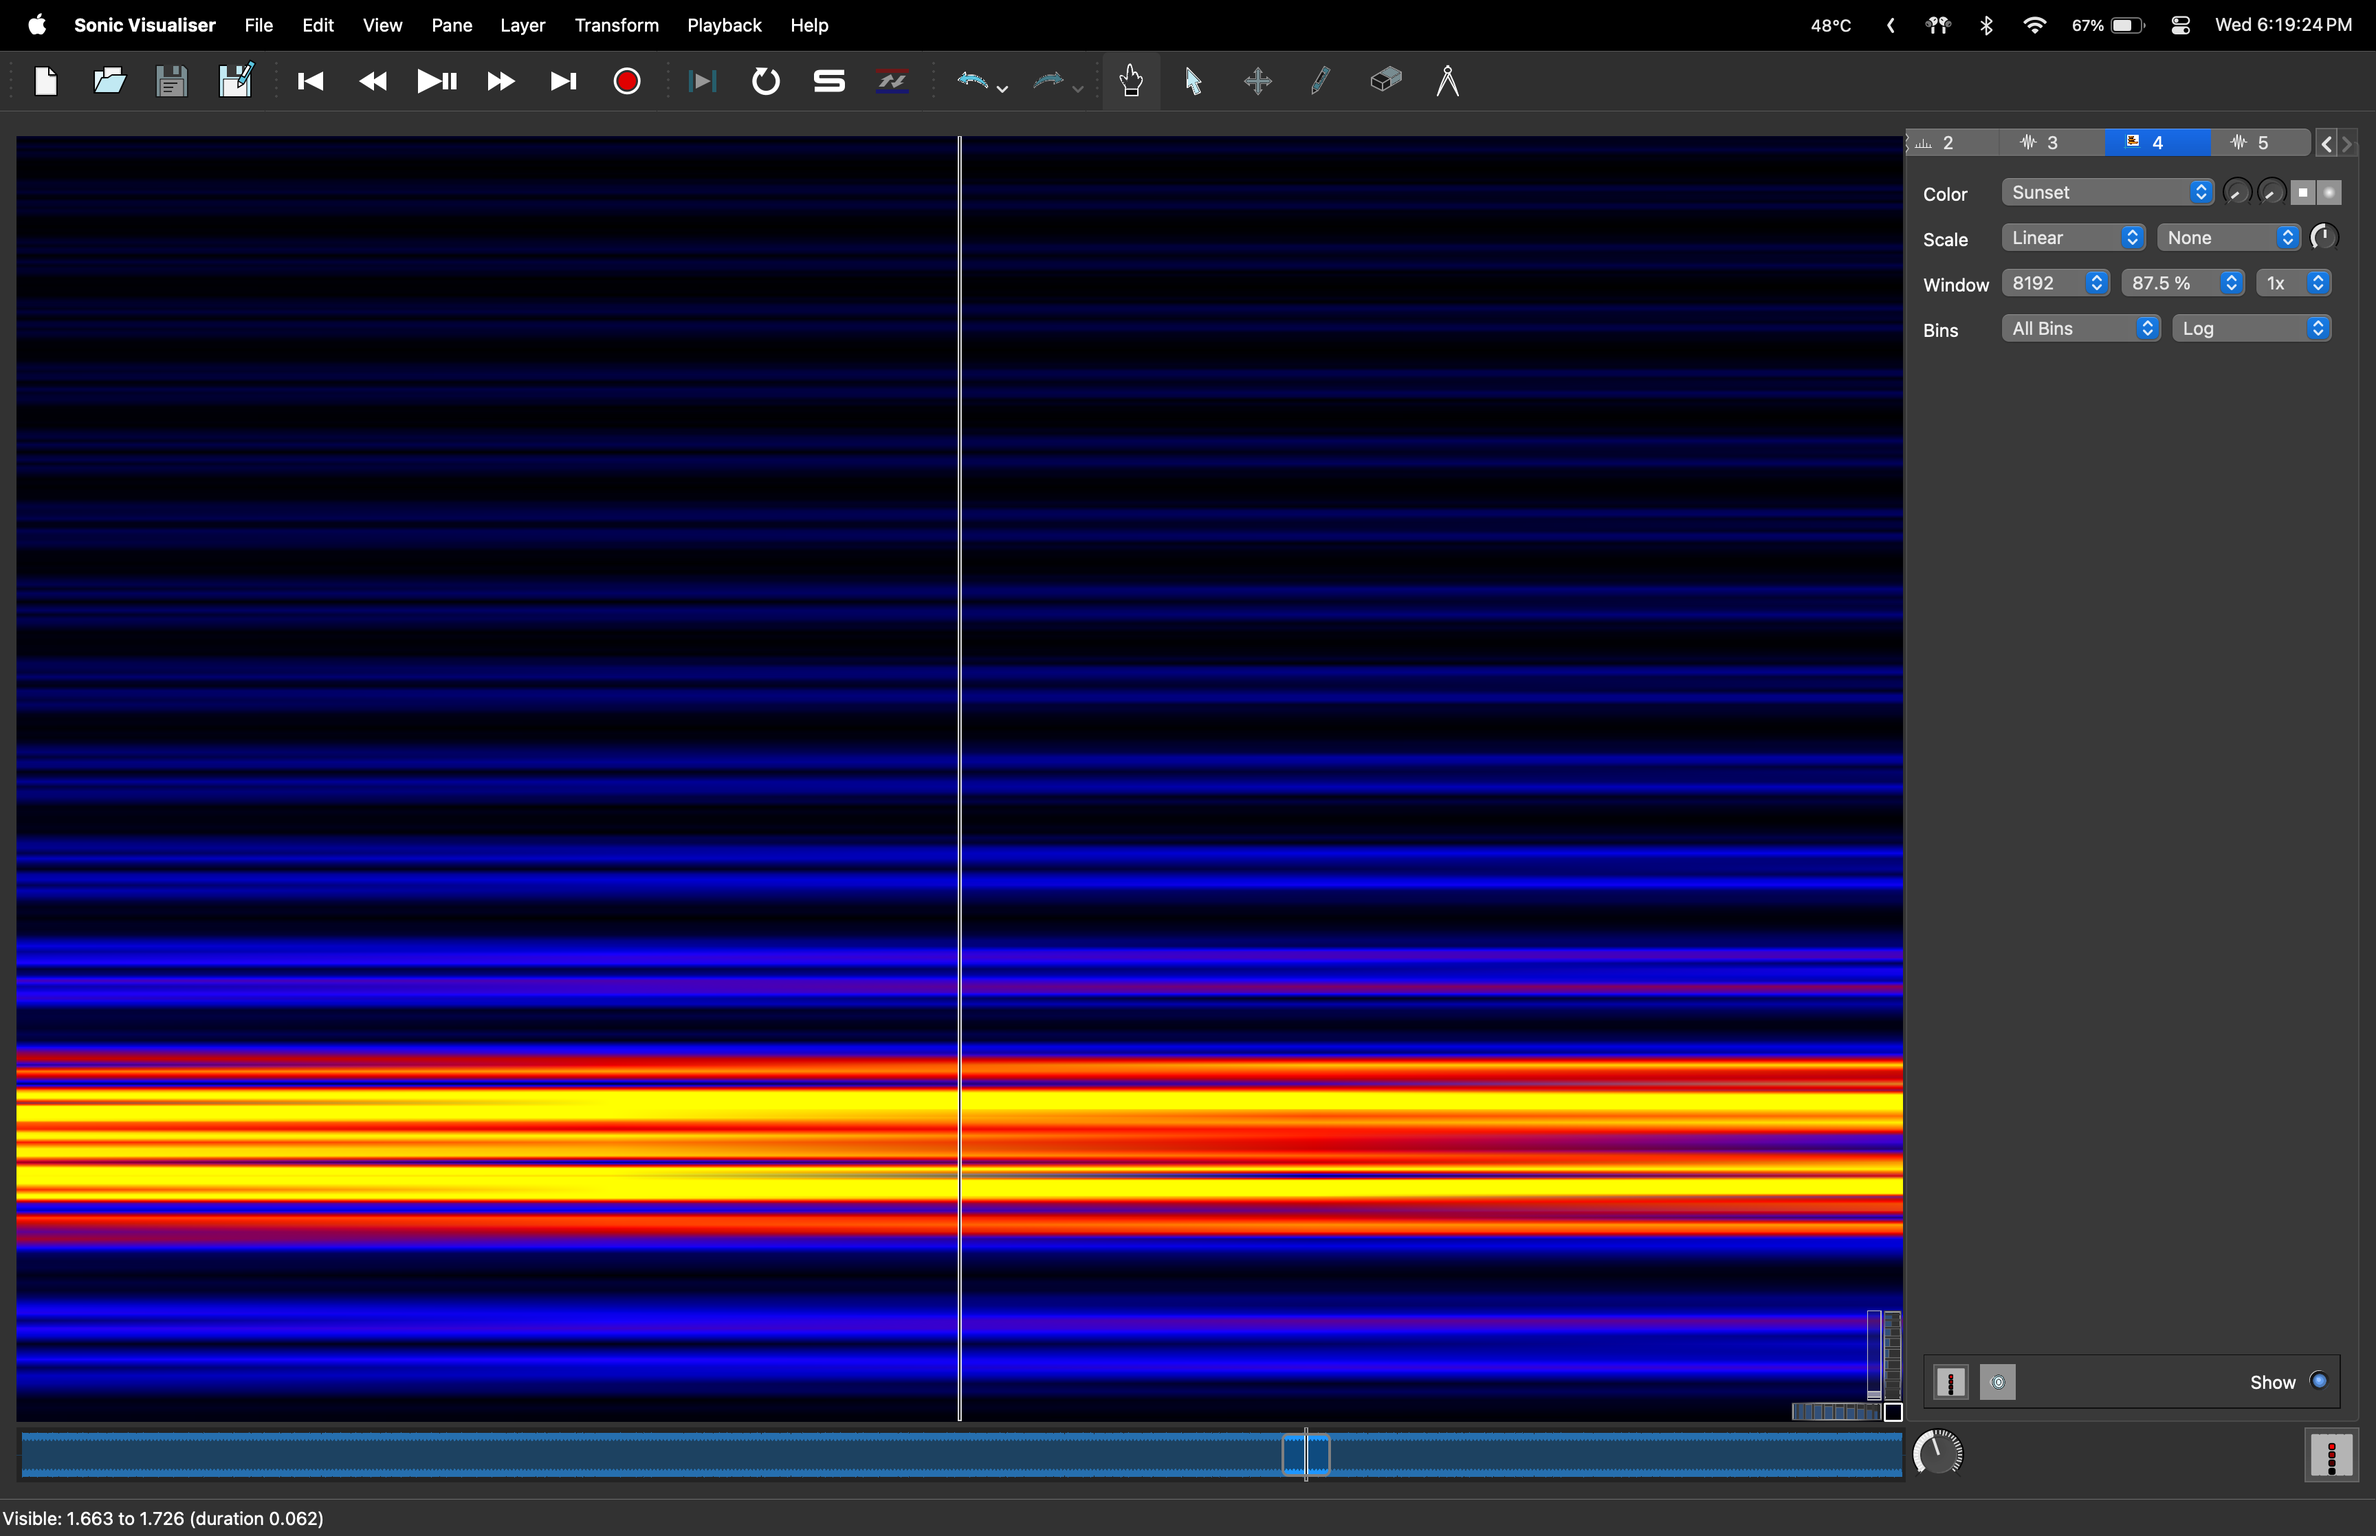
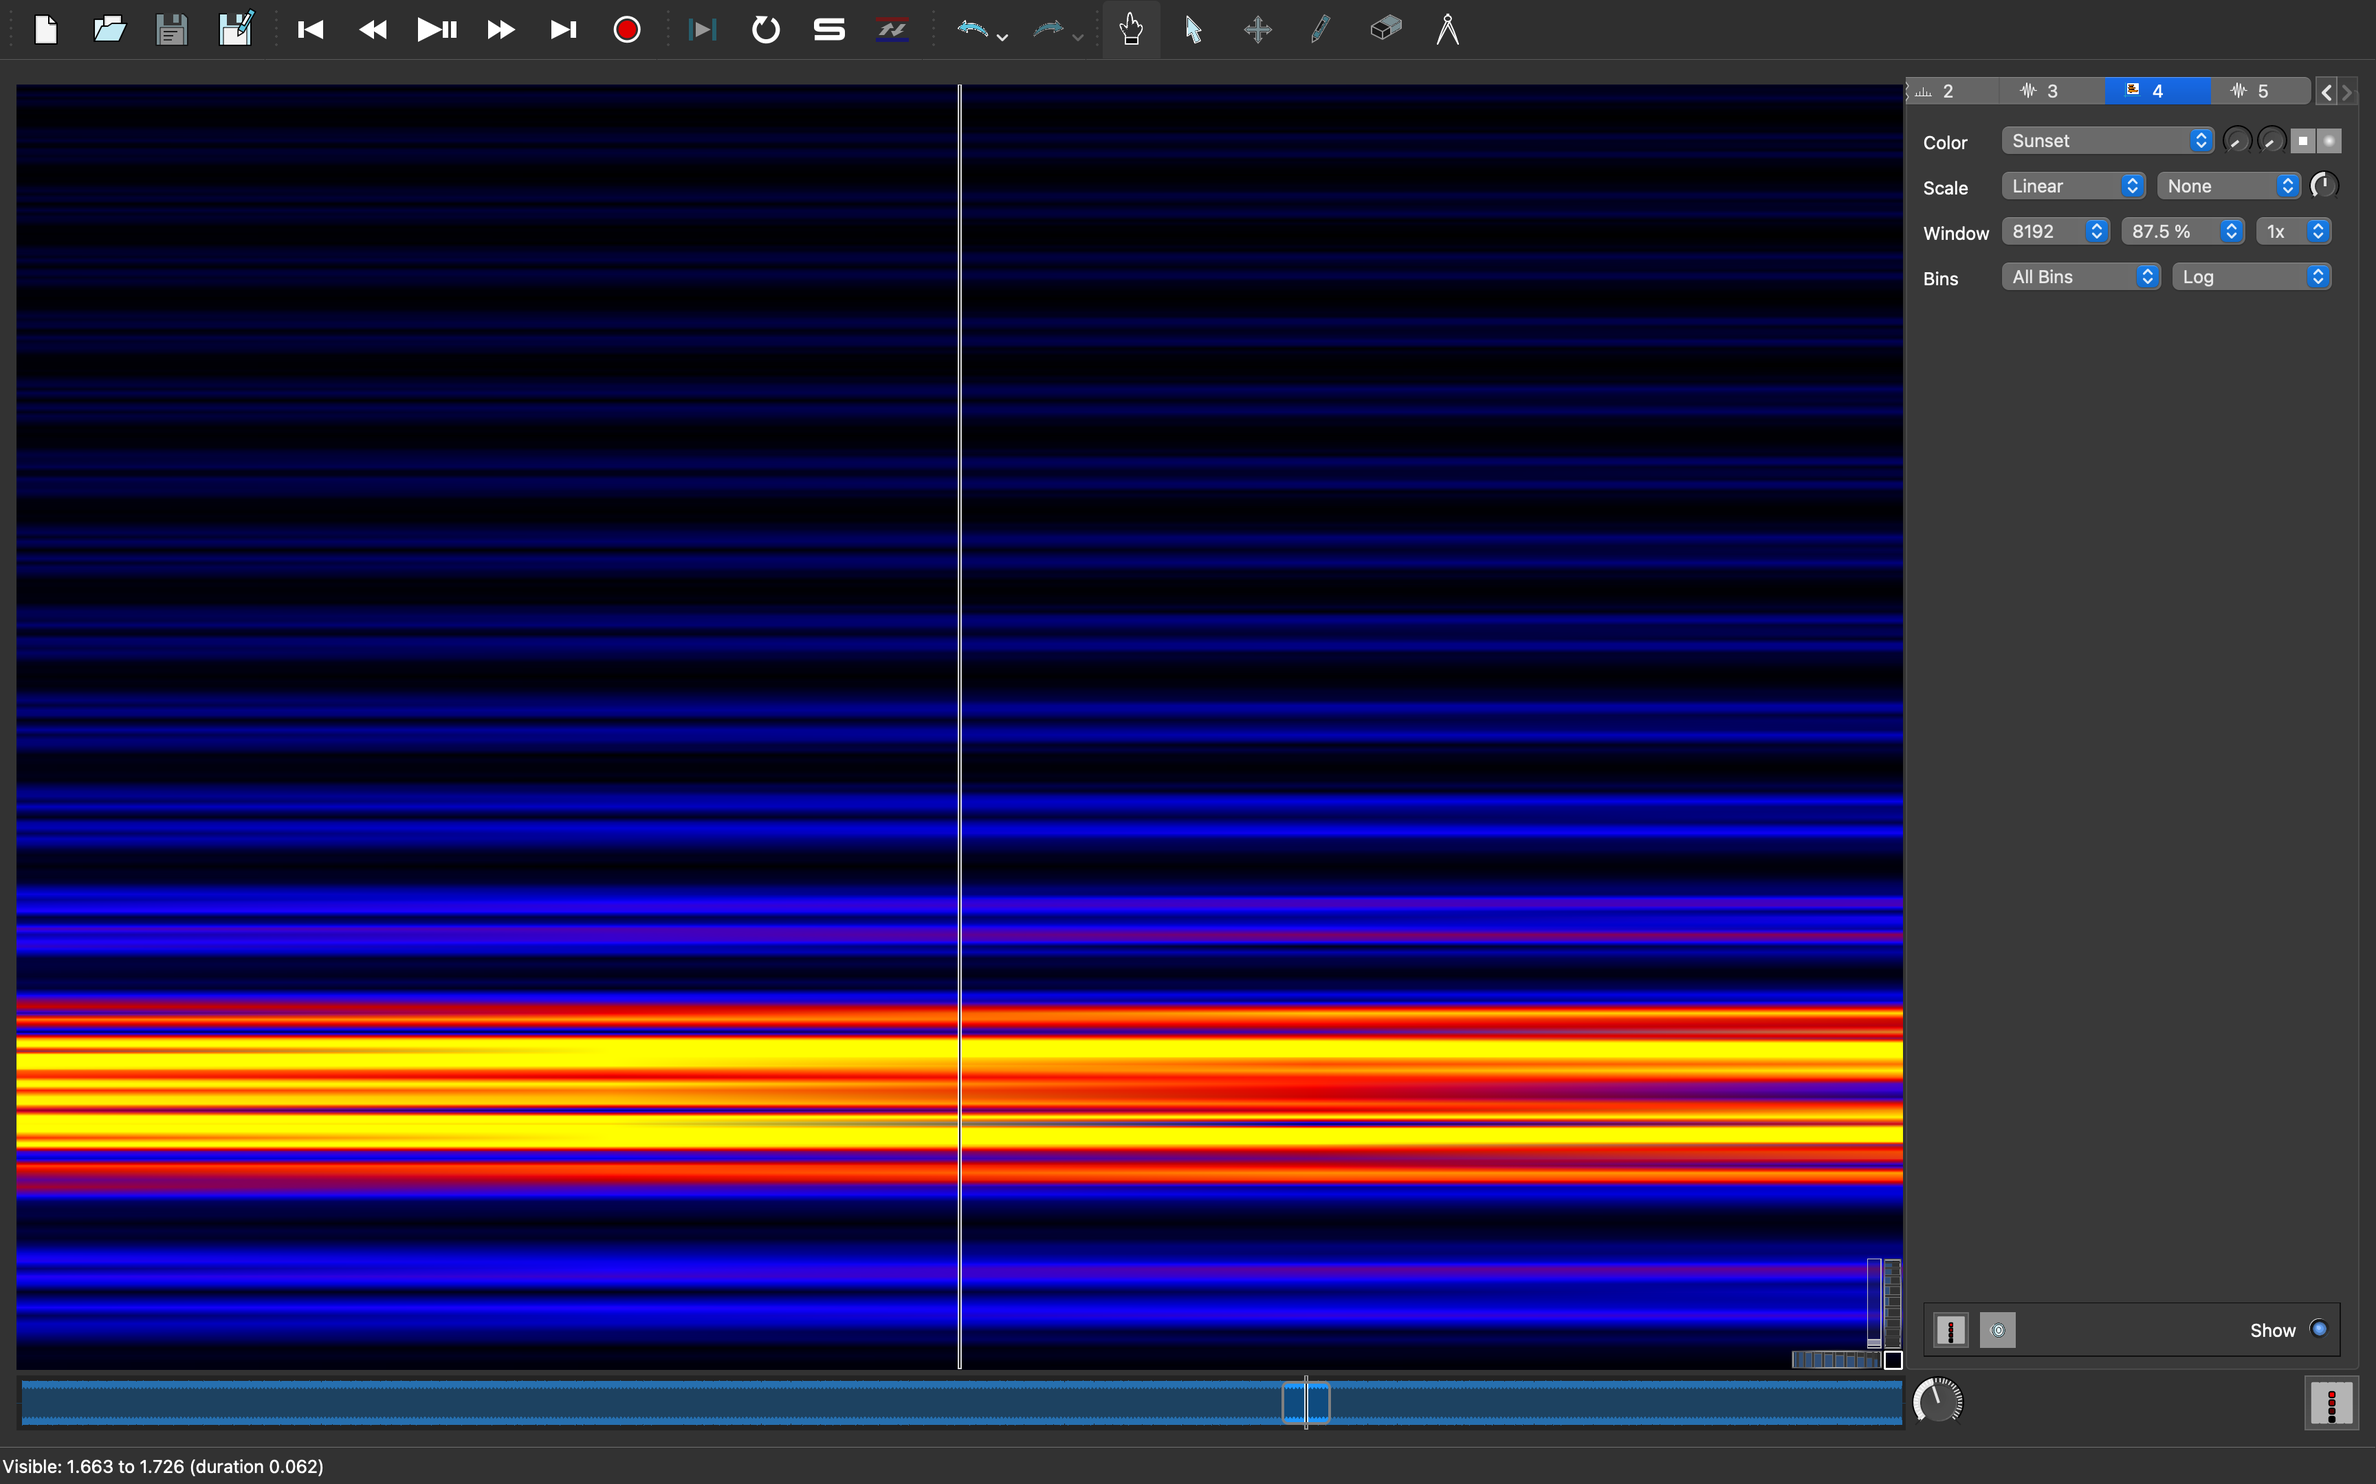
GITBOOK-110: No subject

diff --git a/README.md b/README.md
@@ -1,8 +1,8 @@
 ---
 description: 'chall author: Yana'
 cover: .gitbook/assets/landscape_8343abe8fb00bab9b7e2c00774ffbae2.jpg
-coverY: 90.76923076923077
-coverHeight: 408
+coverY: 0
+coverHeight: 477
 layout:
   width: default
   cover:
@@ -34,7 +34,7 @@ A group of ppl are in a circle chatting when I enter the room, with a few others
 
 It is my first CTF. I know almost nothing about cybersecurity. I scroll through the challenges and pick the OSINT one because it looks the simplest. It is just a photo in .JPG format, can't be that hard right? The goal is to find the location of where the picture was taken and the nearby classrooms. I figure the coordinates would be in the metadata, then I would pop them into Google Maps, and that would be it.
 
-Using **Exiftool** (as Gemini recommended), I find nothing useful in the metadata. So are they really expecting us to walk around and physically find it? I beg Aditya, who is right behind me, for a hint. He smirks at me and says "Start walking!". I prefer not to sneak around the campus in the evening, so that is the end of my first attempt to solve a challenge.
+Using **Exiftool**, I find nothing useful in the metadata. So are they really expecting us to walk around and physically find it? I beg Aditya, who is right behind me, for a hint. He smirks at me and says "Start walking!". I prefer not to sneak around the campus in the evening, so that is the end of my first attempt to solve a challenge.
 
 Pushing forward, I pick the second seem-to-be-the-simplest challenge – Forensics. It is just a .WAV file. It even comes with a nice short story in the description. Maybe this time, the metadata would prove to be helpful.&#x20;
 
@@ -56,11 +56,11 @@ Pushing forward, I pick the second seem-to-be-the-simplest challenge – Forensi
 >
 > * [`maple-signals.wav`](https://maplebacon.org/assets/1337-2026/forensics/maple-signals.wav)
 
-And I am wrong again. There don't seem to be any hints in the metadata. Not knowing what else to do, I ask Gemini for help again. "Download **Sonic Visualiser**, that's what the pros use," it answers. I am not a pro, but I will use it. Opening the .WAV file, I am greeted with a solid blue bar. Oh, I am zoomed out too far. As I zoom in, the solid bar starts to turn into a waveform. Cool, but I still have no idea what I am looking at. Playing around with the menus, it seems there are layers of different [spectrograms](https://en.wikipedia.org/wiki/Spectrogram). After cycling through all of them, zooming in and out, I am still clueless about where the flag is. I guess I am not a pro after all.
+And I am wrong again. There don't seem to be any hints in the metadata. Not knowing what else to do, I ask Gemini for help. "Download [**Sonic Visualiser**](https://www.sonicvisualiser.org/), that's what the pros use," it answers. I am not a pro, but I will use it. Opening the .WAV file, I am greeted with a solid blue bar. Oh, I am zoomed out too far. As I zoom in, the solid bar starts to turn into a waveform. Cool, but I still have no idea what I am looking at. Playing around with the menus, it seems beside waveform, there are also different [spectrograms](https://en.wikipedia.org/wiki/Spectrogram) layers. After cycling through all of them, zooming in and out, I am still clueless about where the flag is. I guess I am not a pro after all.
 
-<figure><img src=".gitbook/assets/Screenshot 2026-03-04 at 6.25.42 PM.png" alt=""><figcaption><p>Sonic Visualiser</p></figcaption></figure>
+<div><figure><img src=".gitbook/assets/Screenshot 2026-05-05 at 3.38.01 PM.png" alt=""><figcaption><p>The solid blue bar</p></figcaption></figure> <figure><img src=".gitbook/assets/Screenshot 2026-05-05 at 3.29.06 PM.png" alt=""><figcaption><p>After zooming in</p></figcaption></figure> <figure><img src=".gitbook/assets/Screenshot 2026-05-05 at 3.34.00 PM.png" alt=""><figcaption><p>Spectrogram</p></figcaption></figure></div>
 
-The next suggestion Gemini gives me is [Slow Scan Television (SSTV)](https://en.wikipedia.org/wiki/Slow-scan_television). Maybe the flag is an image hidden in the spectrogram. Except when I compare the sound of our .WAV file to a SSTV sample on YouTube, they sound nothing alike. Another dead end.
+The next suggestion Gemini gives me is [Slow Scan Television (SSTV)](https://en.wikipedia.org/wiki/Slow-scan_television). Maybe the flag is an image hidden in the spectrogram. Except when I compare the sound of our [.WAV file](https://maplebacon.org/assets/1337-2026/forensics/maple-signals.wav) to a SSTV sample on [YouTube](https://www.youtube.com/watch?v=EJbFg4sjINo), they sound nothing alike. Another dead end.
 
 Perhaps sensing the hopelessness, Yana comes over to check on me. After seeing that I am stuck, she suggests trying another challenge. It might be easier. I tell her I want to give this one more hour. She looks at me and says "It is all about perspective." and leaves.
 
@@ -70,29 +70,44 @@ Then Zhou, who sits at the other corner of the room, rolls his chair over and as
 
 Part not willing to admit defeat, part trying to impress each other, we find ourselves staring at the challenge description for a period of time that exceeds the social norm. A small detail starts catching our attention: **100 BPM**.&#x20;
 
-It seems weirdly specific to include that in a block of text that is mostly for flavor. "Does that mean 100ms?" I ask Zhou. "10ms," he replies. (Which turns out, we were both wrong lol. 100 BPM is 1 beat every 600ms. 100Hz is 10ms.) Then Zhou has to go. Before he leaves, he shows me a Python library called `librosa`. He has been using it to read the .WAV file in his Python script.
+It seems weirdly specific to include that in a block of text that is mostly for flavor. "Does that mean 100ms?" I ask Zhou. "**10ms**," he replies. (Which turns out, we were both wrong lol. 100 BPM is 1 beat every 600ms. We were thinking 100Hz which is 1 cycle per 10ms.) Then Zhou has to go. Before he leaves, he shows me a Python library called `librosa`. He has been using it to read the .WAV file in his Python script.
 
 Switching back to Sonic Visualiser, I continue playing with the different "perspectives". Then suddenly, I see it. In the **Waveform** layer, with the timescale sets to **10ms**, the waveform is not continuous anymore. There are distinct spikes, some upward, some downward, hidden in constant intervals, sort of like Morse code.
 
-<figure><img src=".gitbook/assets/Screenshot 2026-03-04 at 6.19.06 PM.png" alt=""><figcaption><p>Example of an upward spike that would transcribe to 1 in binaries.</p></figcaption></figure>
+<figure><img src=".gitbook/assets/Screenshot 2026-03-04 at 6.19.06 PM (1).png" alt=""><figcaption><p>The "perspective" showing the spikes.</p></figcaption></figure>
 
-I am about to grab a pen to write the code manually, but then I remember the Python library Zhou just showed me. With a bit of help from Gemini to understand the API, I now have a Python script that reads the .WAV file in 10ms chunks and prints 0 or 1 depending on the spike direction.
+I am about to grab a pen to transcribe the code manually, but then I remember the Python library Zhou just showed me. With a bit of help from Gemini to understand the API, I now have a Python script that reads the .WAV file in 10ms chunks and prints 0 or 1 depending on the _spike_ direction. (It is not really a spike, see explanation below)
+
+## Solve Script
+
+A .WAV file usually has the [sampling rate](https://en.wikipedia.org/wiki/Sampling_\(signal_processing\)) of 44100Hz (samples/sec), so a chunk of 10ms would contain 441 samples. Here is an example of a chunk that would correlate to 1 in binaries. A chunk that correlates to 0 in binaries would have same values but negative.&#x20;
+
+<table><thead><tr><th width="206">Samples</th><th>Level</th></tr></thead><tbody><tr><td>1</td><td>0.8</td></tr><tr><td>2</td><td>0.79189396</td></tr><tr><td>3</td><td>0.7677402</td></tr><tr><td>...</td><td>...</td></tr><tr><td>439</td><td>0.7280281</td></tr><tr><td>440</td><td>0.7677402</td></tr><tr><td>441</td><td>0.79189396</td></tr></tbody></table>
+
+In our .WAV file, the peak is always at the first sample of each chunk. So when we have a two chunks that correlates to alternate values, for example `10` , then last sample of the first chunk and the first sample of the second chunk would be `0.79189396` and -`0.8` . This discotinuity creates the spikes we see.
 
 ```python
+import librosa
+import numpy as np
+
 y, sr = librosa.load("maple-signals.wav", sr=None)
 samples_per_chunk = int(sr * 0.01) # 44100 samples/sec * 10ms = 441 samples
 bits = []
 
 for i in range(0, len(y), samples_per_chunk):
     chunk = y[i : i + samples_per_chunk]
-    if len(chunk) == 0: continue
     peak = chunk[np.argmax(np.abs(chunk))]
     bits.append("1" if peak > 0 else "0")
 
 bin = "".join(bits)
+print(bin)
 ```
 
-With the binaries fresh out of the oven, and a random binary-to-ASCII decoder I found on Google (I recognize it is ASCII because we were just talking about it in CPSC 121), a string that is not complete gibberish shows up. At this point, I am still not sure exactly what a flag looks like, so I message Zhou. He explains to me the flag should be in `maple{...}` format. And that's how I got my first flag.
+With the binaries fresh out of the oven, and a random [binary-to-ASCII decoder](https://www.rapidtables.com/convert/number/binary-to-ascii.html) I found on Google (I recognize it is ASCII because we were just talking about it in CPSC 121), a string that is not complete gibberish shows up.
+
+<figure><img src=".gitbook/assets/Screenshot 2026-05-05 at 5.00.15 PM.png" alt="" width="563"><figcaption></figcaption></figure>
+
+At this point, I am still not sure exactly what a flag looks like, so I message Zhou. He explains to me the flag should be in `maple{...}` format. And that's how I got my first flag.
 
 p.s. Also thank you to Lyndon who showed me how to actually submit it to maple-chan.
 
